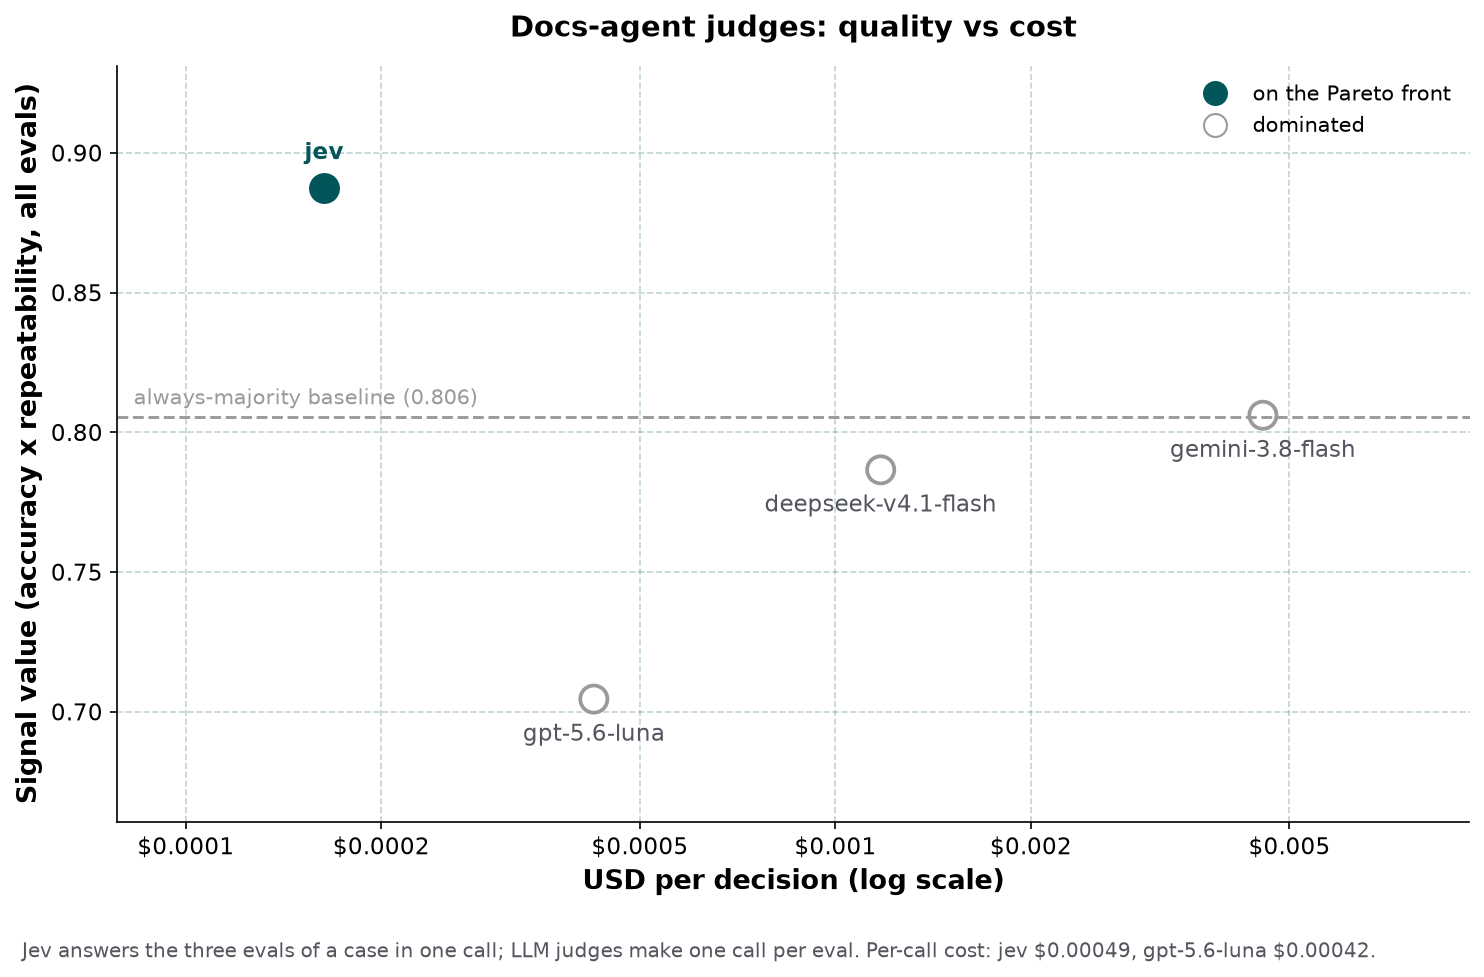
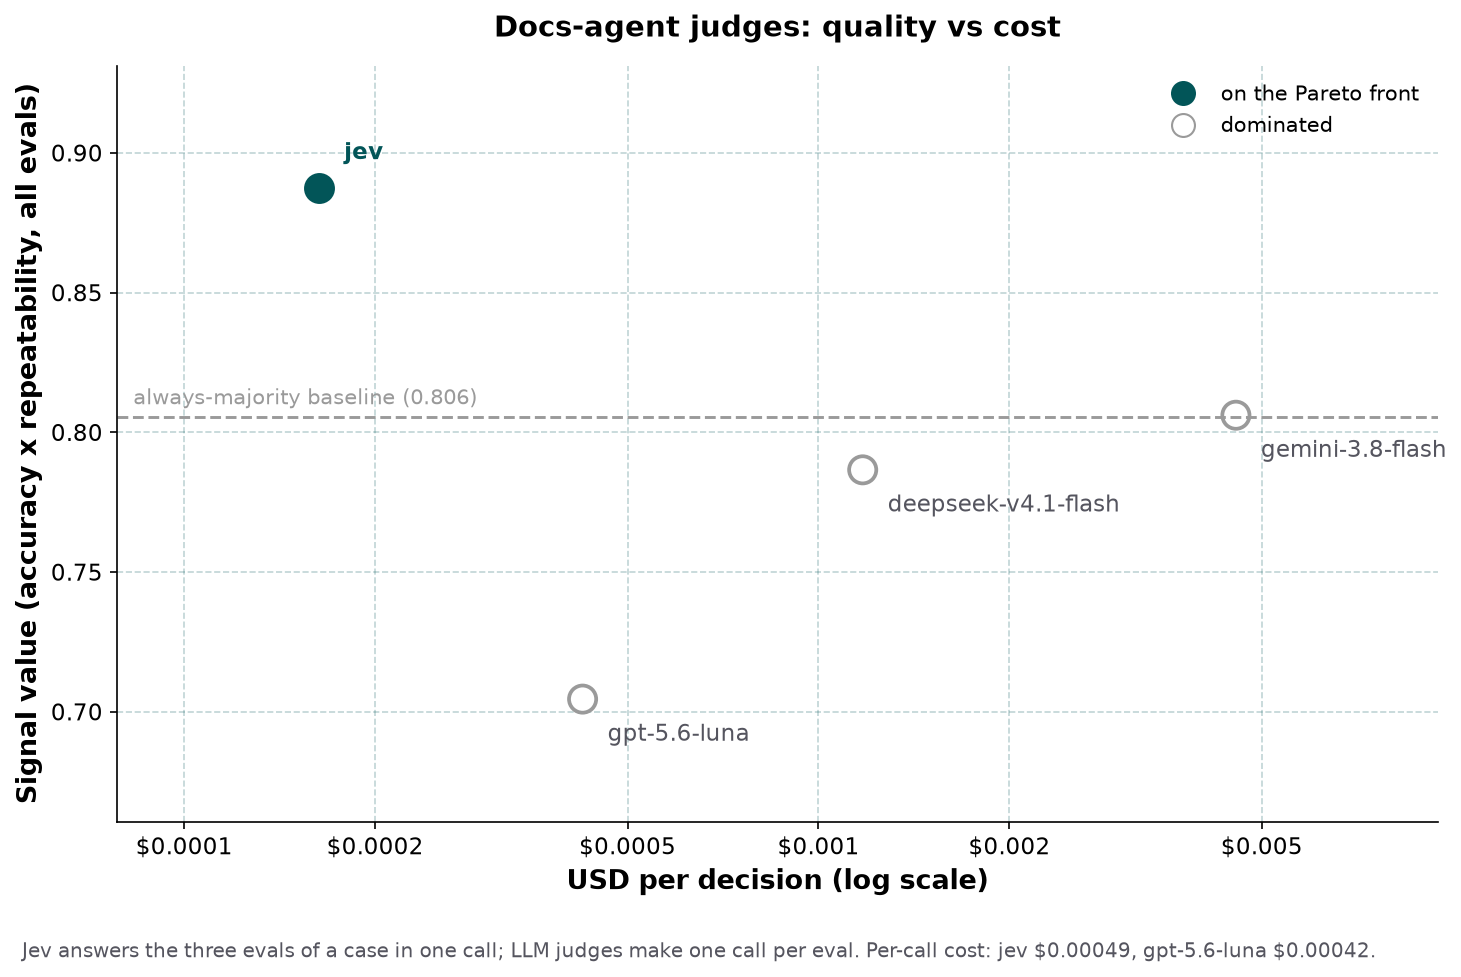
Offset matched-arm labels left on pareto charts

diff --git a/scripts/docs_agent_pareto.py b/scripts/docs_agent_pareto.py
@@ -159,12 +159,13 @@ def chart(
             linewidths=1.8,
             zorder=3,
         )
+        matched = ' (' in name  # matched-arm points sit next to their main-run twin; label them to the left
         ax.annotate(
             name,
             xy=(x, y),
-            xytext=(0, 14 if on_front else -20),
+            xytext=(-12 if matched else 12, 14 if on_front else -20),
             textcoords='offset points',
-            ha='center',
+            ha='right' if matched else 'left',
             fontsize=11,
             fontweight='bold' if on_front else 'normal',
             color=colour if on_front else '#55555f',
